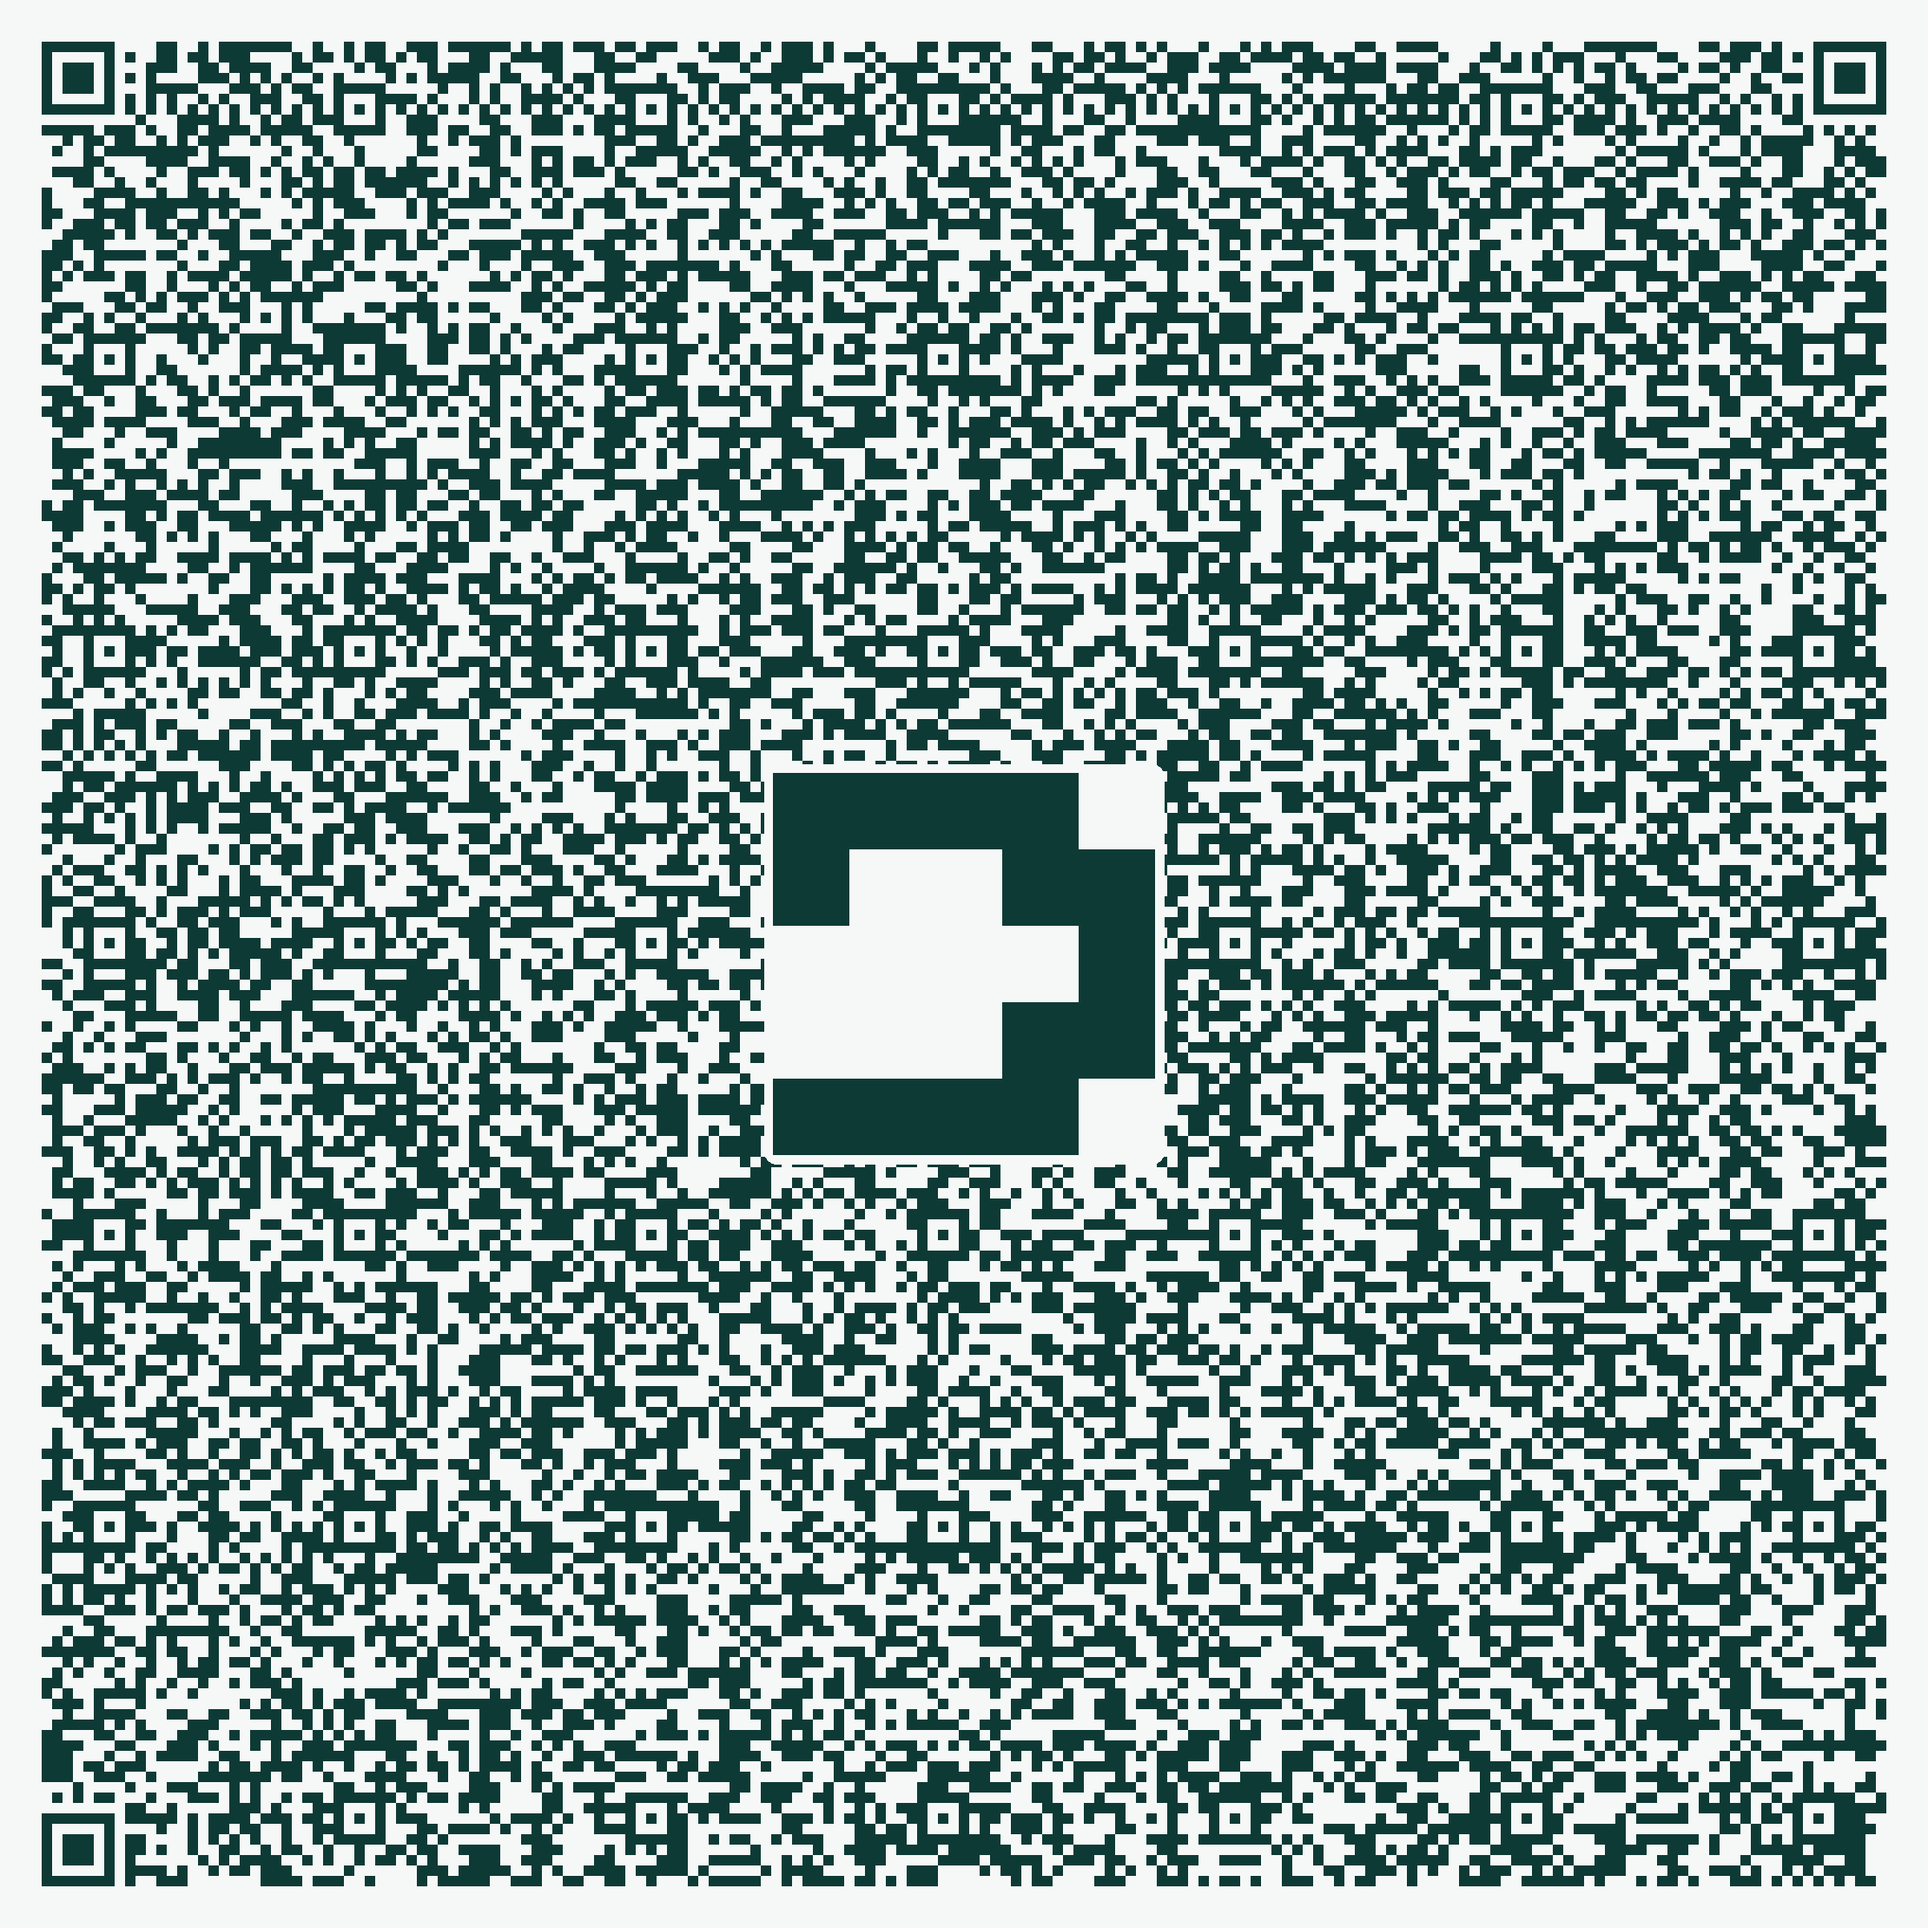
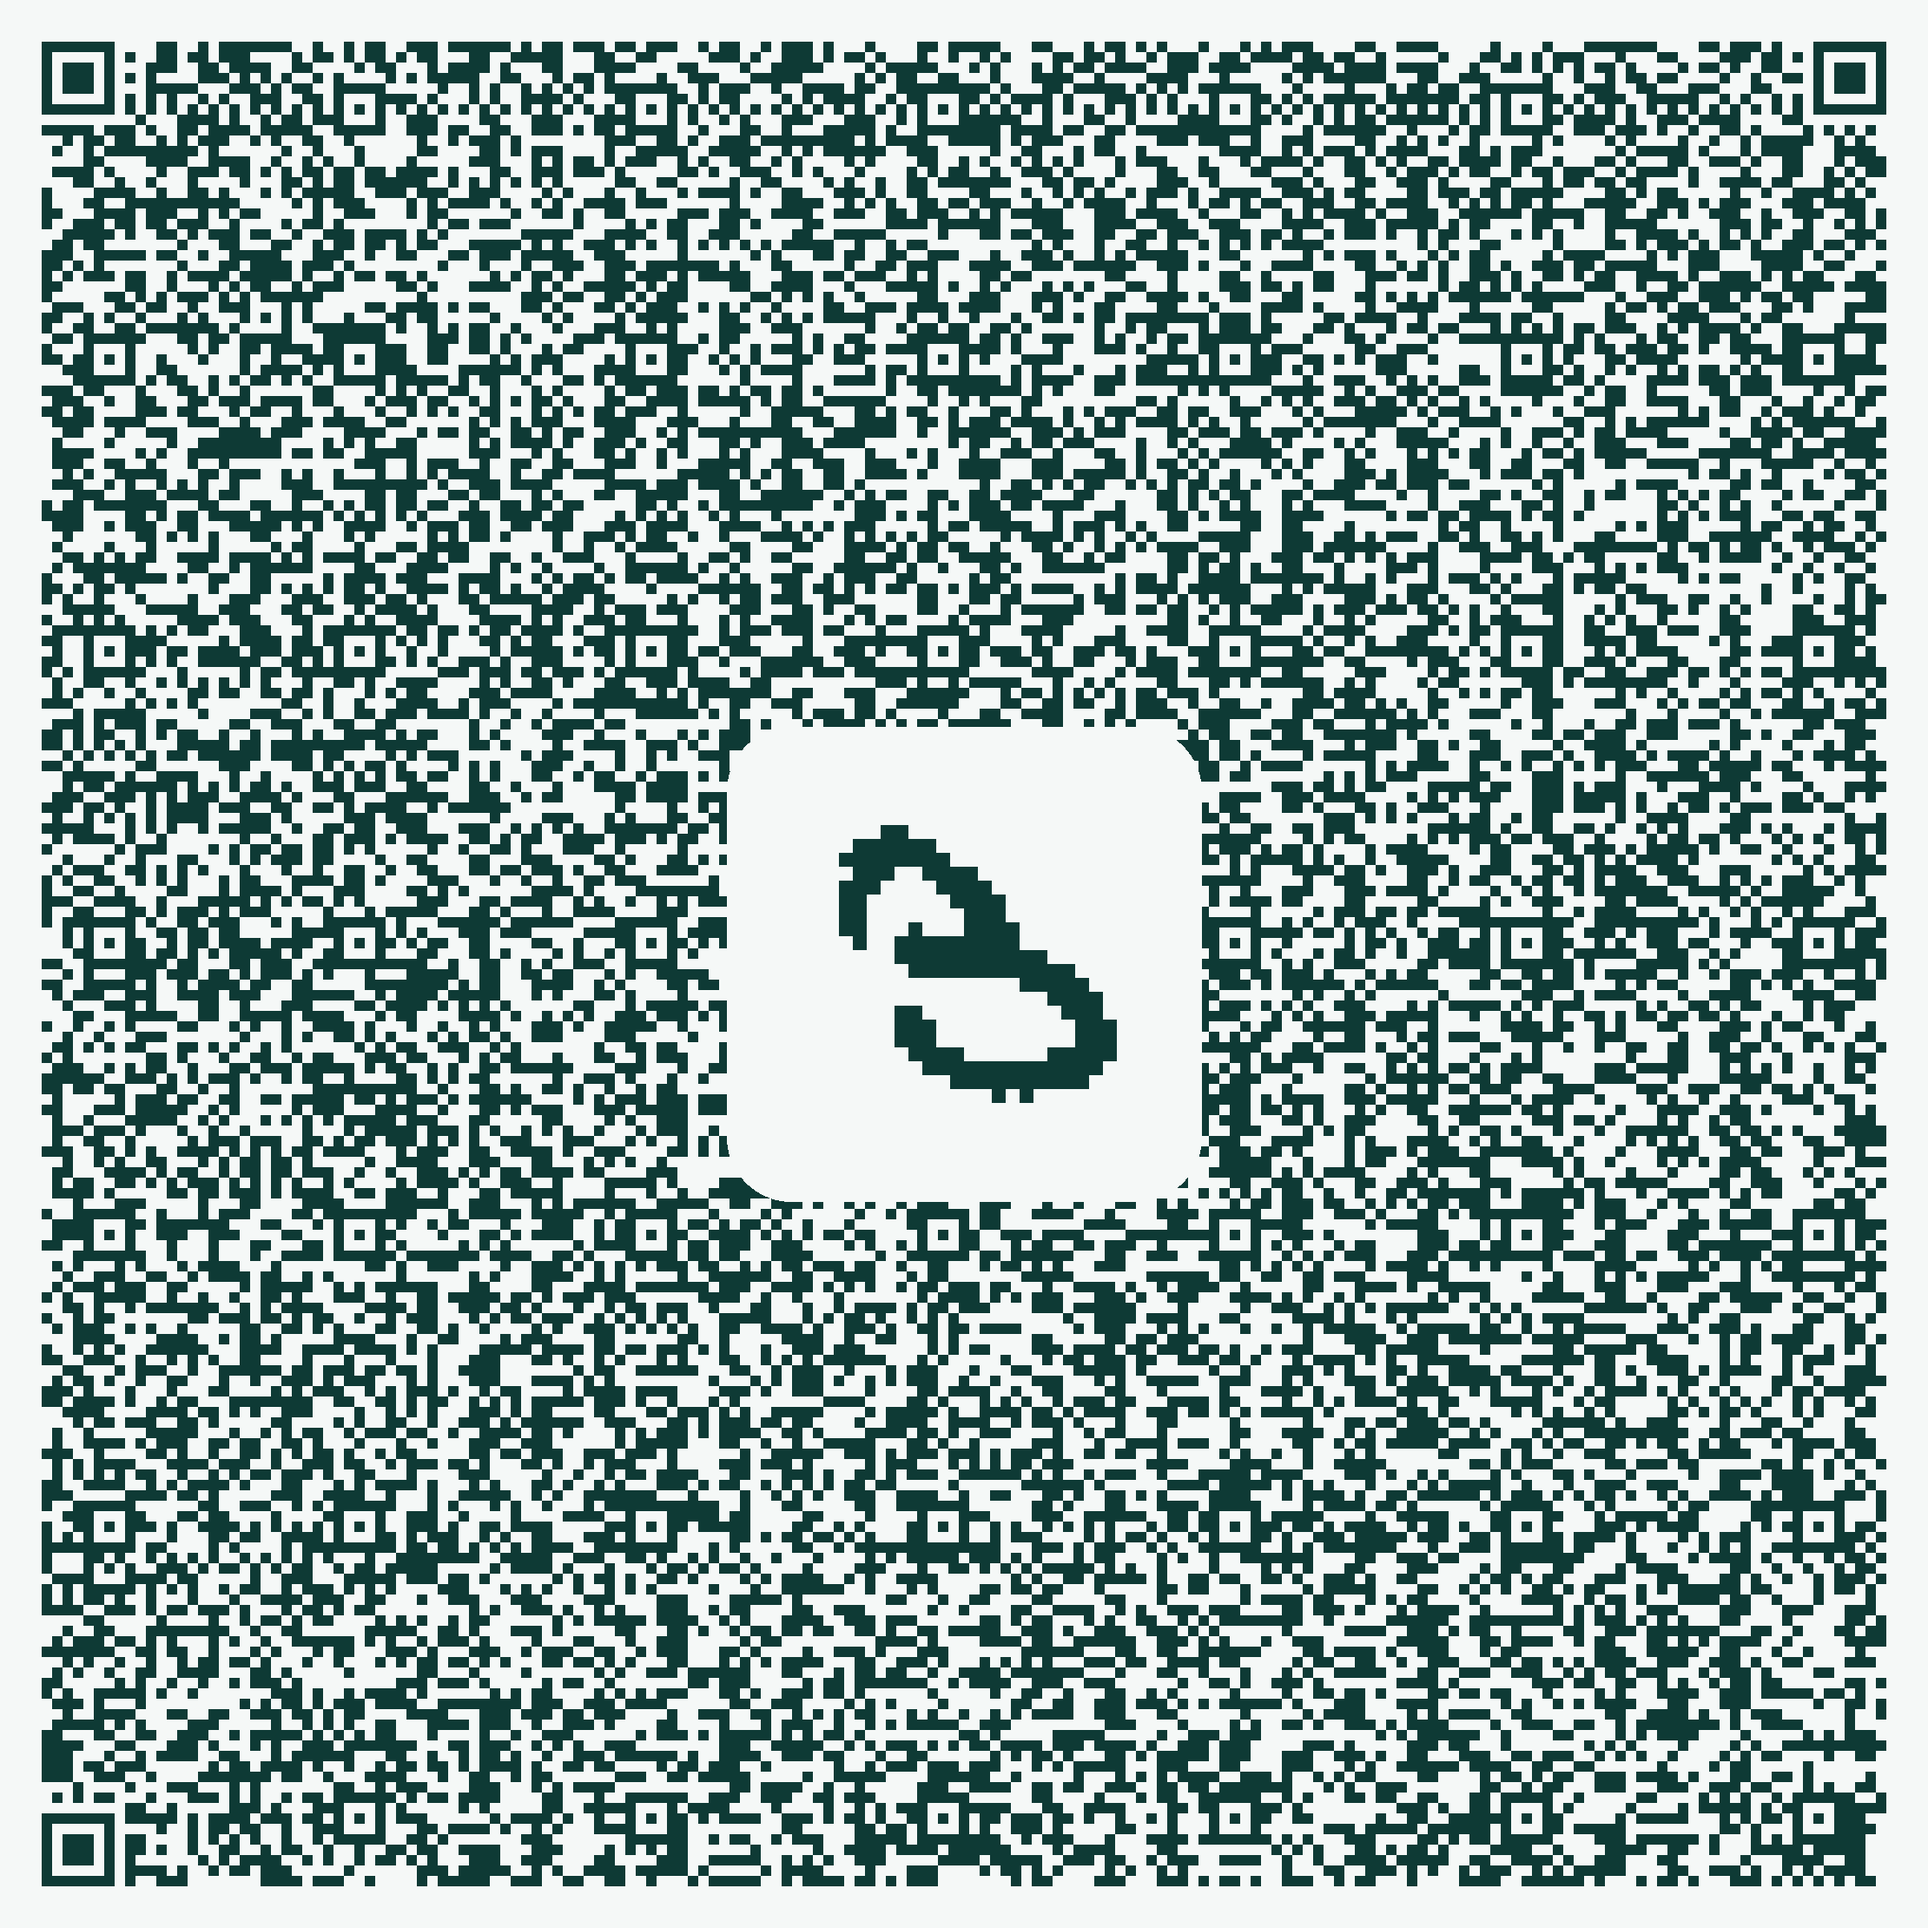
Centre mark: a test-set digit, not a convolution kernel
A 5x5 binary kernel is honest but reads as a random box. A real MNIST digit
reads as what the thing does. Taken from the 300 test images already in
model.npz, so the build still needs no dataset.

Claude-Session: https://claude.ai/code/session_01KPUL5XarNRFrgouMFMSbwf

Changed region(s): [[0.373, 0.373, 0.6216, 0.6216]]

diff --git a/build.py b/build.py
@@ -100,39 +100,46 @@ def viewer_html(blob, model):
     return source
 
 
-def styled_qr(url, model, dest, share=0.04):
-    """A QR with the code's own colours and one real kernel in the middle.
+def styled_qr(url, model, dest, digit=3, share=0.045):
+    """A QR in the project's colours with a real MNIST digit in the middle.
 
-    The art budget is the error-correction budget and nothing more. At this
-    payload the code is version 40-L, whose recovery is 7% of the symbol —
-    measured: a 7% centre hole still decodes, 8% does not. So a mark can cover a
-    few percent and that is the whole design space. Image-style QR art needs
-    level H, which at version 40 holds 1,273 bytes: less than half of this.
+    The art budget is the error-correction budget and nothing more. Measured on
+    this payload (version 40-L): a 7% centre hole still decodes, 8% does not.
+    Image-style QR art needs level H, which holds 1,273 bytes at version 40 —
+    less than half of what is in here, so it is not an option at any setting.
+
+    The mark is a test-set digit rather than a convolution kernel: a 5x5 binary
+    kernel is honest but reads as a random box, which helps nobody.
     """
     from PIL import Image, ImageDraw
 
     qr = segno.make(url, error="l", mode="byte")
     qr.save(dest, scale=12, border=4, dark=QR_DARK, light=QR_LIGHT)
 
-    kernels = unpack(pack(model))[5]           # conv weights, +1 / -1
-    image = Image.open(dest).convert("RGB")
-    side = image.size[0]
-    draw = ImageDraw.Draw(image)
+    # model.npz carries the first 300 test images, so this needs no dataset.
+    labels, images = model["yte"], model["xte"]
+    sample = images[int(np.where(labels == digit)[0][0])]
+
+    canvas = Image.open(dest).convert("RGB")
+    side = canvas.size[0]
+    draw = ImageDraw.Draw(canvas)
 
     span = int(side * share ** 0.5)
-    span -= span % 5                           # whole pixels per kernel cell
+    span -= span % 28                       # whole pixels per source pixel
     origin = (side - span) // 2
+    pad = span // 9
     draw.rounded_rectangle(
-        [origin - 10, origin - 10, origin + span + 10, origin + span + 10],
-        radius=14, fill=QR_LIGHT)
-    cell = span // 5
-    for tap in range(25):
-        if kernels[tap, 0] > 0:
-            row, col = divmod(tap, 5)
-            draw.rectangle([origin + col * cell, origin + row * cell,
-                            origin + (col + 1) * cell - 1,
-                            origin + (row + 1) * cell - 1], fill=QR_DARK)
-    image.save(dest)
+        [origin - pad, origin - pad, origin + span + pad, origin + span + pad],
+        radius=span // 6, fill=QR_LIGHT)
+
+    cell = span // 28
+    for row in range(28):
+        for col in range(28):
+            if sample[row, col] > 0.45:
+                draw.rectangle([origin + col * cell, origin + row * cell,
+                                origin + (col + 1) * cell - 1,
+                                origin + (row + 1) * cell - 1], fill=QR_DARK)
+    canvas.save(dest)
     return qr.version
 
 
